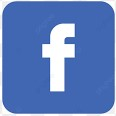
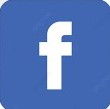
footer complete

Changed region(s): [[0.0, 0.0, 1.0, 1.0], [0.3273, 0.1651, 0.6818, 0.8532]]

diff --git a/style/index.css b/style/index.css
@@ -183,3 +183,48 @@ h3 {
     font-weight: 600;
     padding-bottom: 1%;
 }
+
+footer button {
+    background-color: #f3f2f8;
+    width: fit-content;
+}
+
+.footer button a {
+    background-image: linear-gradient(
+        .25turn, red, orange, yellow, green, blue, purple
+    );
+    background-size: 200% auto;
+    background-clip: border-box;
+    -webkit-background-clip: text;
+    -webkit-text-fill-color: transparent;
+    animation: textclip 2s linear infinite;
+    display: inline-block;
+    font-size: 1rem;
+}
+
+@supports (-webkit-text-stroke: 1px black) {
+    .footer button a {
+      -webkit-text-stroke: 1px black;
+      /* -webkit-text-fill-color: white; */
+    }
+  }
+
+@keyframes textclip {
+    to {
+        background-position: 200% center;
+    }
+}
+
+.social-media {
+    display: flex;
+    justify-content: center;
+    align-items: center;
+    padding: 1%;
+}
+
+.social-media img {
+    padding: 1% 3%;
+    height: auto;
+    width: 15%;
+    border-radius: 50%;
+}
